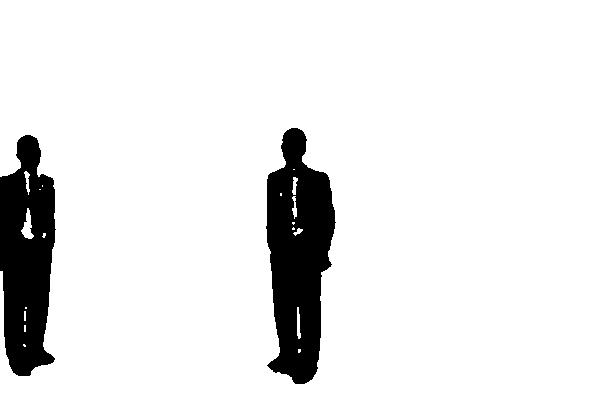
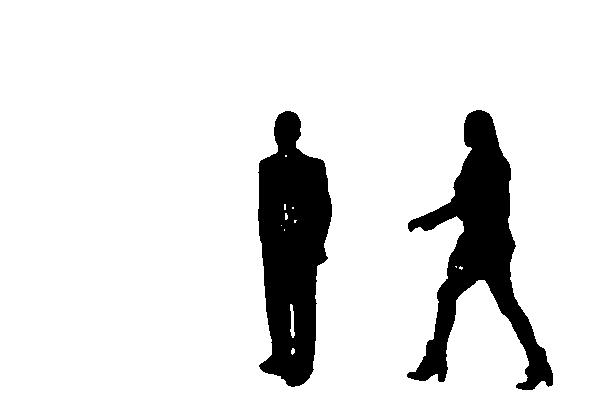
Added alarm noise and synchornized for shared object between threads

diff --git a/Main.java b/Main.java
@@ -6,6 +6,7 @@ import java.util.concurrent.*;
 import java.awt.Color;
 import java.util.ArrayList;
 import java.util.Collections;
+import java.util.Scanner;
 
 /*
 Logic:
@@ -27,21 +28,26 @@ public class Main {
         int height = scenarioImage.getHeight();
         int width = scenarioImage.getWidth();
 
+        // Initial configuration, (entering the horizontal distance of the room)
+        System.out.println("Initial configuration");
+        Scanner distanceScanner = new Scanner(System.in);
         // horizontal distance in M (2 Dimentional) to scale from pixels to M
-        double horizontal_distance_in_the_room_meters = 3.5; // meters
-        double social_distance_meters = 0.5; // meters
+        System.out.println("Please enter the horizontal distance of the room in meters");
+        double horizontal_distance_in_the_room_meters = distanceScanner.nextDouble(); // 3.5 meters
+        double social_distance_meters = 1; // meters
+
         // simple rule of 3
         double social_distance_pixel = (width * social_distance_meters) / horizontal_distance_in_the_room_meters;
 
         int social_distance_pixelscale = (int)social_distance_pixel;
 
-        System.out.println("Social distance in pixels: " + social_distance_pixelscale);
+        //System.out.println("Social distance in pixels: " + social_distance_pixelscale);
 
         // Receives an image update from the camera
-        BufferedImage currentImage = ImageIO.read(new File("images/camera4/6.jpg"));
+        BufferedImage currentImage = ImageIO.read(new File("images/camera4/5.jpg"));
 
         // The actual number of threads that will process the image
-        int numberOfThreads = 1;
+        int numberOfThreads = 2;
 
         // Assign a piece of the image to pe processed
         int assignedHeight = height / numberOfThreads;
@@ -64,7 +70,10 @@ public class Main {
         threadPool.invoke(pbc);
         long finishTimeInMiliseconds = System.currentTimeMillis();
 
+        System.out.println("\nPROCESING TIME INFORMATION:");
         System.out.println("Total time taken to detect changes and binarize on parallel in miliseconds using "+ numberOfThreads + " threads: " + (finishTimeInMiliseconds - beginTimeInMiliseconds));
+        
+        // Compare time with sequential version
         /*
         beginTimeInMiliseconds = System.currentTimeMillis();
         SequentialBinarizedChanges sbc = new SequentialBinarizedChanges(width, height);
@@ -72,8 +81,8 @@ public class Main {
         finishTimeInMiliseconds = System.currentTimeMillis();
         System.out.println("Total time taken to detect changes and binarize on sequential in miliseconds: " + (finishTimeInMiliseconds - beginTimeInMiliseconds));
         */
-        //currentImage = imageConverter.ConvertMatrixToImage(resultImageMatrix, currentImage, width, height);
 
+        //currentImage = imageConverter.ConvertMatrixToImage(resultImageMatrix, currentImage, width, height);
         //ImageIO.write(currentImage, "jpg", new File("images/camera4/detectedBinarizedChanges.jpg"));
 
         // 4.1 Reduce image noise with median filter
@@ -95,10 +104,10 @@ public class Main {
         //imageConverter.PrintImageMatrix(testresultImageMatrix);
 
         int assignedWidth = width / numberOfThreads;
+
         // System.out.println("assignedWidth: " + assignedWidth);
 
         People people = new People();
-
         
         ParallelPeopleDetector ppd = new ParallelPeopleDetector(0, width, reducedNoiseImageMatrix, assignedWidth, height, width, 0, people);
         beginTimeInMiliseconds = System.currentTimeMillis();
@@ -112,6 +121,26 @@ public class Main {
         ArrayList<Integer> peopleHorizontalStartBoundaries = people.getHorizontalStartBoundaries();
         ArrayList<Integer> peopleHorizontalEndBoundaries = people.getHorizontalEndBoundaries();
 
+        /* DEBUGGING
+        if (peopleHorizontalStartBoundaries.isEmpty()) {
+            System.out.println("peopleHorizontalStartBoundaries vacio");
+        }else{
+            System.out.println(peopleHorizontalStartBoundaries.size());
+            for (int i = 0; i < peopleHorizontalStartBoundaries.size(); i++) {
+                System.out.print(peopleHorizontalStartBoundaries.get(i) + " ");
+            }
+        }
+        System.out.print("\n");
+
+        if (peopleHorizontalEndBoundaries.isEmpty()) {
+            System.out.println("peopleHorizontalEndBoundaries vacio");
+        }else{
+            System.out.println(peopleHorizontalEndBoundaries.size());
+            for (int i = 0; i < peopleHorizontalEndBoundaries.size(); i++) {
+                System.out.print(peopleHorizontalEndBoundaries.get(i) + " ");
+            }
+        }*/
+
         Collections.sort(peopleHorizontalStartBoundaries);
         Collections.sort(peopleHorizontalEndBoundaries);
 
@@ -122,7 +151,6 @@ public class Main {
        
         // in case a person was divided by the threads, there is no case in which it is smaller, (start position is always considered)
         
-        
         if (peopleHorizontalStartBoundaries.size() > peopleHorizontalEndBoundaries.size()) {
             int j = 0;
             boolean alreadyAddedStart = false;
@@ -141,87 +169,58 @@ public class Main {
                 }
             }
             normPeopleHorizontalEndBoundaries = peopleHorizontalEndBoundaries;
-            /*
-            for (int i = 0; i < peopleHorizontalEndBoundaries.size(); i++) {
-                normPeopleHorizontalStartBoundaries.add(peopleHorizontalStartBoundaries.get(j));
-                if (!peopleHorizontalEndBoundaries.isEmpty()) { //one person arriving at the extremes
-                    while ((j < peopleHorizontalStartBoundaries.size()) && (peopleHorizontalEndBoundaries.get(i) >= peopleHorizontalStartBoundaries.get(j))) {
-                        j++;
-                    }
-                }
-            }
-            normPeopleHorizontalEndBoundaries = peopleHorizontalEndBoundaries;*/
             
         } else if (peopleHorizontalStartBoundaries.size() == peopleHorizontalEndBoundaries.size()) {
             normPeopleHorizontalStartBoundaries = peopleHorizontalStartBoundaries;
             normPeopleHorizontalEndBoundaries = peopleHorizontalEndBoundaries;
         }
 
-        /*
-        if (peopleHorizontalStartBoundaries.size() > peopleHorizontalEndBoundaries.size()) {
-            int j = 0;
-            boolean alreadyAddedStart = false;
-            for (int i = 0; i < peopleHorizontalStartBoundaries.size(); i++) {
-                if (j < peopleHorizontalEndBoundaries.size())  {
-                    if ((peopleHorizontalStartBoundaries.get(i) < peopleHorizontalEndBoundaries.get(j)) && !alreadyAddedStart) {
-                        normPeopleHorizontalStartBoundaries.add(peopleHorizontalStartBoundaries.get(i));
-                        alreadyAddedStart = true;
-                    } else if ((peopleHorizontalStartBoundaries.get(i) >= peopleHorizontalEndBoundaries.get(j)) && alreadyAddedStart) {
-                        normPeopleHorizontalStartBoundaries.add(peopleHorizontalStartBoundaries.get(i));
-                        alreadyAddedStart = false;
-                        j++;
-                    }
-                } else {
-                    normPeopleHorizontalStartBoundaries.add(peopleHorizontalStartBoundaries.get(i));
-                }
-            }
-            normPeopleHorizontalEndBoundaries = peopleHorizontalEndBoundaries;
-            /*
-            for (int i = 0; i < peopleHorizontalEndBoundaries.size(); i++) {
-                normPeopleHorizontalStartBoundaries.add(peopleHorizontalStartBoundaries.get(j));
-                if (!peopleHorizontalEndBoundaries.isEmpty()) { //one person arriving at the extremes
-                    while ((j < peopleHorizontalStartBoundaries.size()) && (peopleHorizontalEndBoundaries.get(i) >= peopleHorizontalStartBoundaries.get(j))) {
-                        j++;
-                    }
-                }
-            }
-            normPeopleHorizontalEndBoundaries = peopleHorizontalEndBoundaries;*/
-            /*
-        } else if (peopleHorizontalStartBoundaries.size() == peopleHorizontalEndBoundaries.size()) {
-            normPeopleHorizontalStartBoundaries = peopleHorizontalStartBoundaries;
-            normPeopleHorizontalEndBoundaries = peopleHorizontalEndBoundaries;
-        }*/
-
-        System.out.println("Start");
-        for (int i = 0; i < normPeopleHorizontalStartBoundaries.size(); i++) {
-            System.out.println(normPeopleHorizontalStartBoundaries.get(i));
-        }
-
-        System.out.println("End");
-        for (int i = 0; i < normPeopleHorizontalEndBoundaries.size(); i++) {
-            System.out.println(normPeopleHorizontalEndBoundaries.get(i));
-        }
-
         int numberOfPeople;
 
-        // Case that someone is at the extremes, entering the room, or just one person is there
-        /*
-        if (Math.max(peopleHorizontalStartBoundaries.size(), peopleHorizontalEndBoundaries.size()) == 1) {
-            numberOfPeople = 1;
-        } else if (normPeopleHorizontalStartBoundaries.size() > normPeopleHorizontalEndBoundaries.size()) {
+        numberOfPeople = Math.max(normPeopleHorizontalStartBoundaries.size(), normPeopleHorizontalEndBoundaries.size());
+        
+        System.out.println("\nOBTAINED INFORMATION: ");
+        System.out.println("Number of people in the room: " + numberOfPeople);
 
-        } else {*/
-            numberOfPeople = Math.max(normPeopleHorizontalStartBoundaries.size(), normPeopleHorizontalEndBoundaries.size());
-        //}
-        System.out.println("\nNumber of people in the room: " + numberOfPeople + "\n");
-
-        if (numberOfPeople > 1) {
-            System.out.println("\nDistances between them: ");
-            for (int i = 0; i < numberOfPeople - 1; i++) {
-                System.out.println(normPeopleHorizontalStartBoundaries.get(i + 1) - normPeopleHorizontalEndBoundaries.get(i));
-            }
+        System.out.println("Starts in pixels: ");
+        for (int i = 0; i < normPeopleHorizontalStartBoundaries.size(); i++) {
+            System.out.print(normPeopleHorizontalStartBoundaries.get(i) + " ");
+        }
+        System.out.print("\n");
+        System.out.println("Ends in pixels:");
+        for (int i = 0; i < normPeopleHorizontalEndBoundaries.size(); i++) {
+            System.out.print(normPeopleHorizontalEndBoundaries.get(i) + " ");
         }
         
+        if (numberOfPeople > 1) {
+            System.out.println("\nDistances between them in pixels: ");
+            for (int i = 0; i < numberOfPeople - 1; i++) {
+                System.out.print(normPeopleHorizontalStartBoundaries.get(i + 1) - normPeopleHorizontalEndBoundaries.get(i) + " ");
+            }
+        }
+
+        if (numberOfPeople > 1) {
+            System.out.println("\nDistances between them in meters: ");
+            for (int i = 0; i < numberOfPeople - 1; i++) {
+                double distanceInPixels = normPeopleHorizontalStartBoundaries.get(i + 1) - normPeopleHorizontalEndBoundaries.get(i);
+                double distanceInMeters = (horizontal_distance_in_the_room_meters * distanceInPixels) / width;
+                System.out.print(String.format("%.2f", distanceInMeters) + " ");
+                if (distanceInMeters >= social_distance_meters) {
+                    System.out.print(" = Respecting social distance");
+                } else {
+                    System.out.print("ALERT! Not respecting social distance");
+                    // sound alert
+                    // Consulted: https://www.youtube.com/watch?v=8NUSbY_7Joc
+                    int a = 7;
+                    char beep = (char)a;
+                    System.out.print(beep);
+                }
+            }
+            
+        }
+        
+
+        System.out.print("\n\n");
         
     }
 

diff --git a/People.java b/People.java
@@ -18,19 +18,19 @@ public class People {
         peopleEndHorizontalBoundaries = new ArrayList<Integer>();
     }
 
-    public void addHorizontalStartBoundary (int boundary) {
+    public synchronized void addHorizontalStartBoundary (int boundary) {
         this.peopleStartHorizontalBoundaries.add(boundary);
     }
 
-    public void addHorizontalEndBoundary (int boundary) {
+    public synchronized void addHorizontalEndBoundary (int boundary) {
         this.peopleEndHorizontalBoundaries.add(boundary);
     }
 
-    public ArrayList<Integer> getHorizontalStartBoundaries () {
+    public synchronized ArrayList<Integer> getHorizontalStartBoundaries () {
         return this.peopleStartHorizontalBoundaries;
     }
 
-    public ArrayList<Integer> getHorizontalEndBoundaries () {
+    public synchronized ArrayList<Integer> getHorizontalEndBoundaries () {
         return this.peopleEndHorizontalBoundaries;
     }
 

diff --git a/ParallelPeopleDetector.java b/ParallelPeopleDetector.java
@@ -74,11 +74,11 @@ public class ParallelPeopleDetector extends RecursiveAction {
             if ((row != imageHeight) && !previousColumnHadSomething) {
                 previousColumnHadSomething = true;
                 this.people.addHorizontalStartBoundary(column);
-                System.out.println("ID: " + this.id + " Starting column: " + column);
+                //System.out.println("ID: " + this.id + " Starting column: " + column);
             } else if ((row == imageHeight) && previousColumnHadSomething){
                 previousColumnHadSomething = false;
                 this.people.addHorizontalEndBoundary(column);
-                System.out.println("ID: " + this.id + " Ending column: " + column);
+                //System.out.println("ID: " + this.id + " Ending column: " + column);
             }
 
         }
